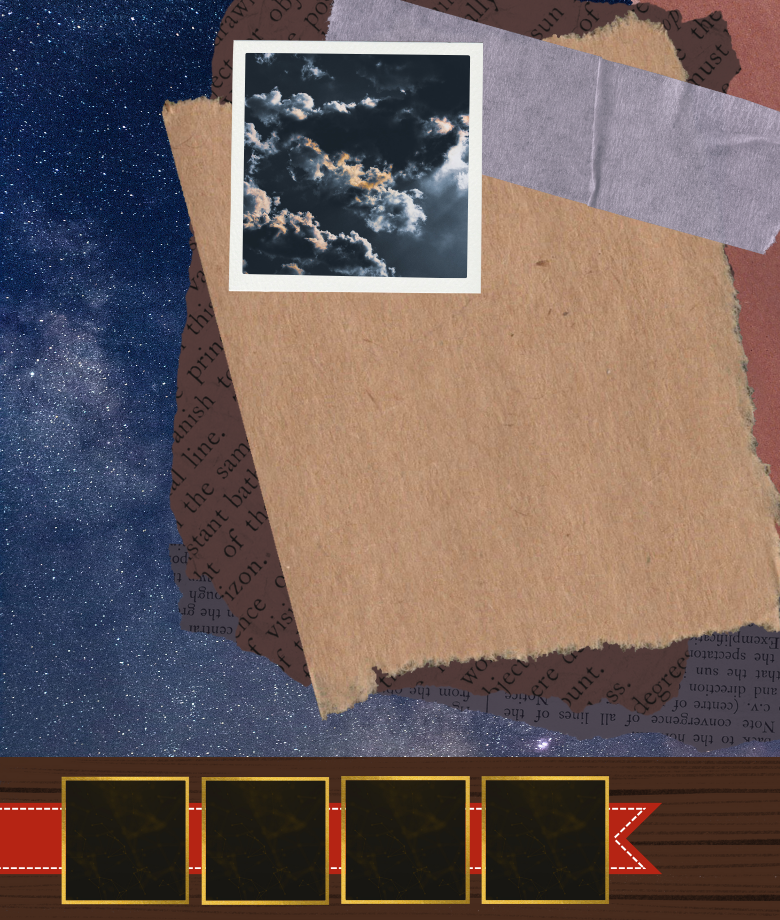
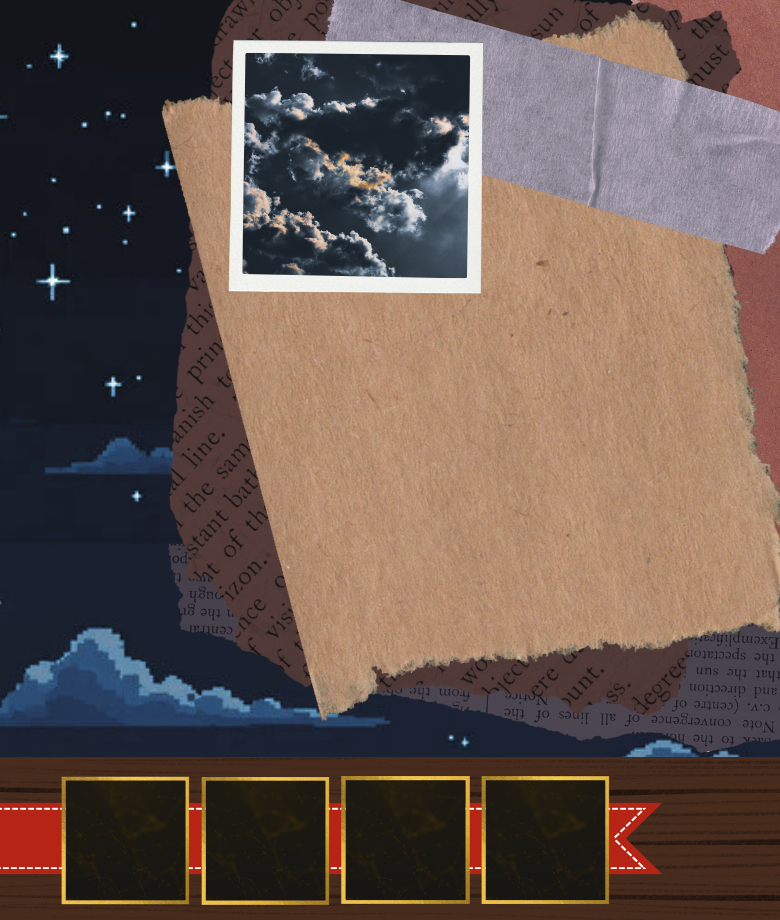
final aesthetic changes

Changed region(s): [[0.0, 0.0, 1.0, 0.8217]]

diff --git a/src/main/CharacterSelect.java b/src/main/CharacterSelect.java
@@ -26,7 +26,7 @@ public class CharacterSelect extends JPanel {
     JButton addToTeamBtn;
     JButton confirmBtn;
 
-    private Image background;
+    Image background;
     Font headerfont;
     Font pfont;
 
@@ -97,6 +97,8 @@ public class CharacterSelect extends JPanel {
             portraitBtn.addActionListener(e -> {
                 selectedUnit = u;
                 showUnitInfo(u);
+                background = u.picSelectBG;
+                repaint();
             });
 
             leftPanel.add(portraitBtn);
@@ -140,7 +142,17 @@ public class CharacterSelect extends JPanel {
         infoBottom.setOpaque(false);
         infoBottom.setBorder(BorderFactory.createEmptyBorder(20, 0, 0, 20));
 
-        JPanel skillsBox = new JPanel();
+        JPanel skillsBox = new JPanel() {
+            @Override
+            protected void paintComponent(Graphics g) {
+                super.paintComponent(g);
+
+                Graphics2D g2 = (Graphics2D) g.create();
+                g2.setColor(new Color(0, 0, 0, 120)); // black, ~60% opacity
+                g2.fillRoundRect(0, 0, getWidth(), getHeight(), 0, 0);
+                g2.dispose();
+            }
+        };
         skillsBox.setOpaque(false);
         skillsBox.setLayout(new BoxLayout(skillsBox, BoxLayout.Y_AXIS));
 
@@ -210,7 +222,11 @@ public class CharacterSelect extends JPanel {
         confirmBtn.setFont(headerfont);
         confirmBtn.setForeground(Color.WHITE);
 
-        confirmBtn.addActionListener(e -> confirmTeam());
+        confirmBtn.addActionListener(e -> {
+            confirmTeam();
+            background = new ImageIcon(getClass().getResource("/assets/notsotempbg.png")).getImage();
+            repaint();
+        });
 
         confirmBtn.addMouseListener(new MouseAdapter() {
             @Override
@@ -321,6 +337,10 @@ public class CharacterSelect extends JPanel {
         basicLabel.setFont(pfont);
         skillLabel.setFont(pfont);
         ultiLabel.setFont(pfont);
+
+        basicLabel.setForeground(u.flairColor);
+        skillLabel.setForeground(u.flairColor);
+        ultiLabel.setForeground(u.flairColor);
 
         nameLabel.setText("<html>" + u.name + "</html>");
         statsLabel.setText(

diff --git a/src/units/Buffer.java b/src/units/Buffer.java
@@ -28,6 +28,8 @@ public class Buffer extends Unit {
         ImageIcon small = new ImageIcon(getClass().getResource("/assets/Buffer/picSmall.png"));
         ImageIcon large = new ImageIcon(getClass().getResource("/assets/Buffer/picLarge.png"));
 
+        this.picSelectBG = new ImageIcon(getClass().getResource("/assets/Buffer/sagebg.png")).getImage();
+
         this.picSmall = small.getImage().getScaledInstance(
             128, 128, Image.SCALE_SMOOTH
         );
@@ -35,6 +37,8 @@ public class Buffer extends Unit {
         this.picLarge = large.getImage().getScaledInstance(
             256, 256, Image.SCALE_SMOOTH
         );
+
+        this.flairColor = new Color(102, 178, 255, 255);
 
         this.basicDesc =
             "<html><b>Forbidden Knowledge</b><br>"

diff --git a/src/units/Tank.java b/src/units/Tank.java
@@ -28,6 +28,8 @@ public class Tank extends Unit {
         ImageIcon small = new ImageIcon(getClass().getResource("/assets/Tank/picSmall.png"));
         ImageIcon large = new ImageIcon(getClass().getResource("/assets/Tank/picLarge.png"));
 
+        this.picSelectBG = new ImageIcon(getClass().getResource("/assets/Tank/cerberusbg.png")).getImage();
+
         this.picSmall = small.getImage().getScaledInstance(
             128, 128, Image.SCALE_SMOOTH
         );
@@ -35,6 +37,8 @@ public class Tank extends Unit {
         this.picLarge = large.getImage().getScaledInstance(
             256, 256, Image.SCALE_SMOOTH
         );
+
+        this.flairColor = new Color(252, 198, 50, 255);
 
         this.basicDesc = 
             "<html><b>Lone Wolf Charge</b>" + "<br>"

diff --git a/src/units/Mage.java b/src/units/Mage.java
@@ -28,6 +28,8 @@ public class Mage extends Unit {
         ImageIcon small = new ImageIcon(getClass().getResource("/assets/Mage/picSmall.png"));
         ImageIcon large = new ImageIcon(getClass().getResource("/assets/Mage/picLarge.png"));
 
+        this.picSelectBG = new ImageIcon(getClass().getResource("/assets/Mage/presabg.png")).getImage();
+
         this.picSmall = small.getImage().getScaledInstance(
             128, 128, Image.SCALE_SMOOTH
         );
@@ -35,6 +37,8 @@ public class Mage extends Unit {
         this.picLarge = large.getImage().getScaledInstance(
             256, 256, Image.SCALE_SMOOTH
         );
+
+        this.flairColor = new Color(204, 255, 153, 255);
 
         this.basicDesc = 
             "<html><b>Queen's Torment</b>" + "<br>"

diff --git a/src/units/Fighter.java b/src/units/Fighter.java
@@ -36,9 +36,13 @@ public class Fighter extends Unit {
             256, 256, Image.SCALE_SMOOTH
         );
 
+        this.picSelectBG = new ImageIcon(getClass().getResource("/assets/Fighter/rokoroubg.png")).getImage();
+
+        this.flairColor = new Color(204, 153, 255, 255);
+
         this.basicDesc = 
             "<html><b>Void Slash</b>" + "<br>"
-            + "Rokorou dashes and cuts through a SINGLE enemy dealing 110% of his current attack"
+            + "Rokorou dashes and cuts through a SINGLE enemy dealing 110% of his current attack."
         ;
 
         this.skillDesc =

diff --git a/src/units/Healer.java b/src/units/Healer.java
@@ -35,6 +35,10 @@ public class Healer extends Unit {
             256, 256, Image.SCALE_SMOOTH
         );
 
+        this.picSelectBG = new ImageIcon(getClass().getResource("/assets/Healer/eleanorbg.png")).getImage();
+
+        this.flairColor = new Color(255, 128, 0, 255);
+
         this.basicDesc = 
             "<html><b>Light Drive</b>" + "<br>"
             + "Eleanor slashes her spear to one enemy dealing 130% of her attack plus 20% of her magic attack."

diff --git a/src/units/Unit.java b/src/units/Unit.java
@@ -49,10 +49,13 @@ public abstract class Unit {
 
     public Image picSmall;
     public Image picLarge;
+    public Image picSelectBG;
 
     public String basicDesc;
     public String skillDesc;
     public String ultimateDesc;
+
+    public Color flairColor;
 
     public Image[] walkFrames; 
     public int walkFrameIndex = 0;
